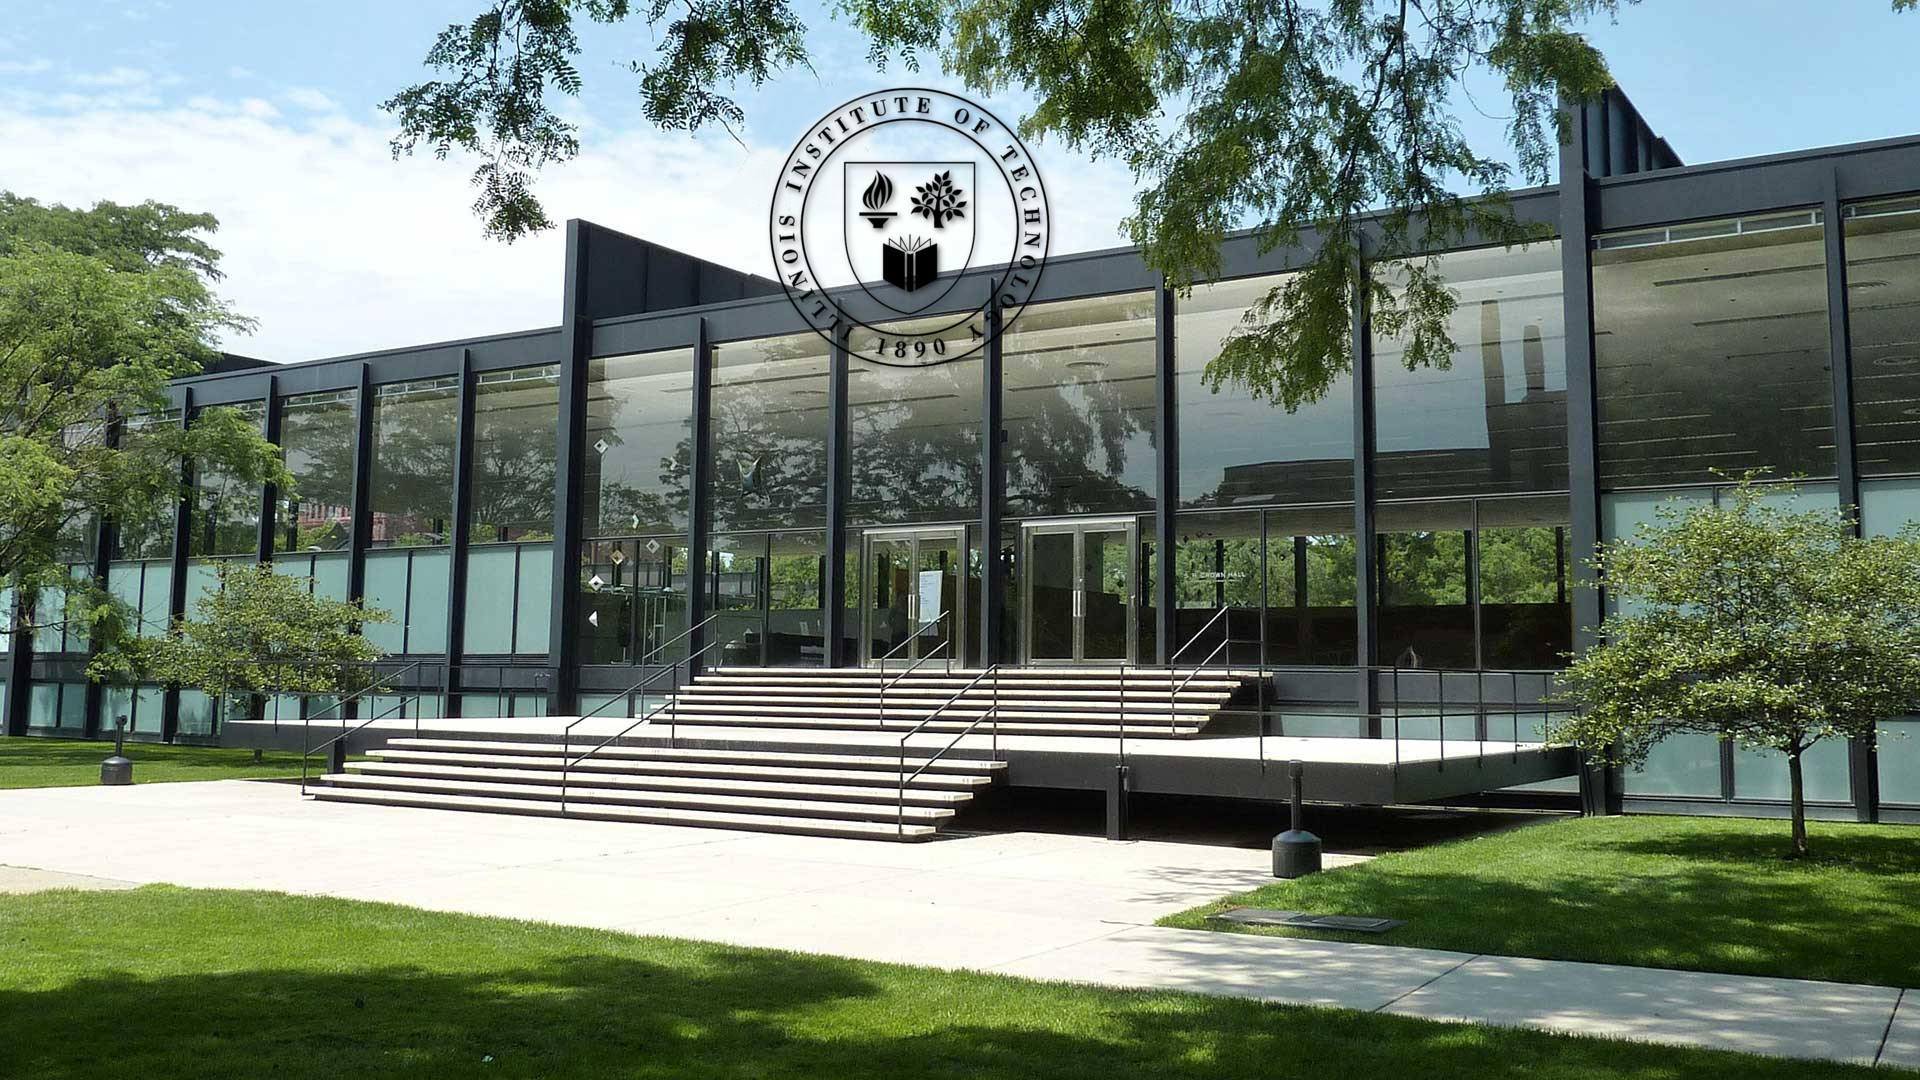
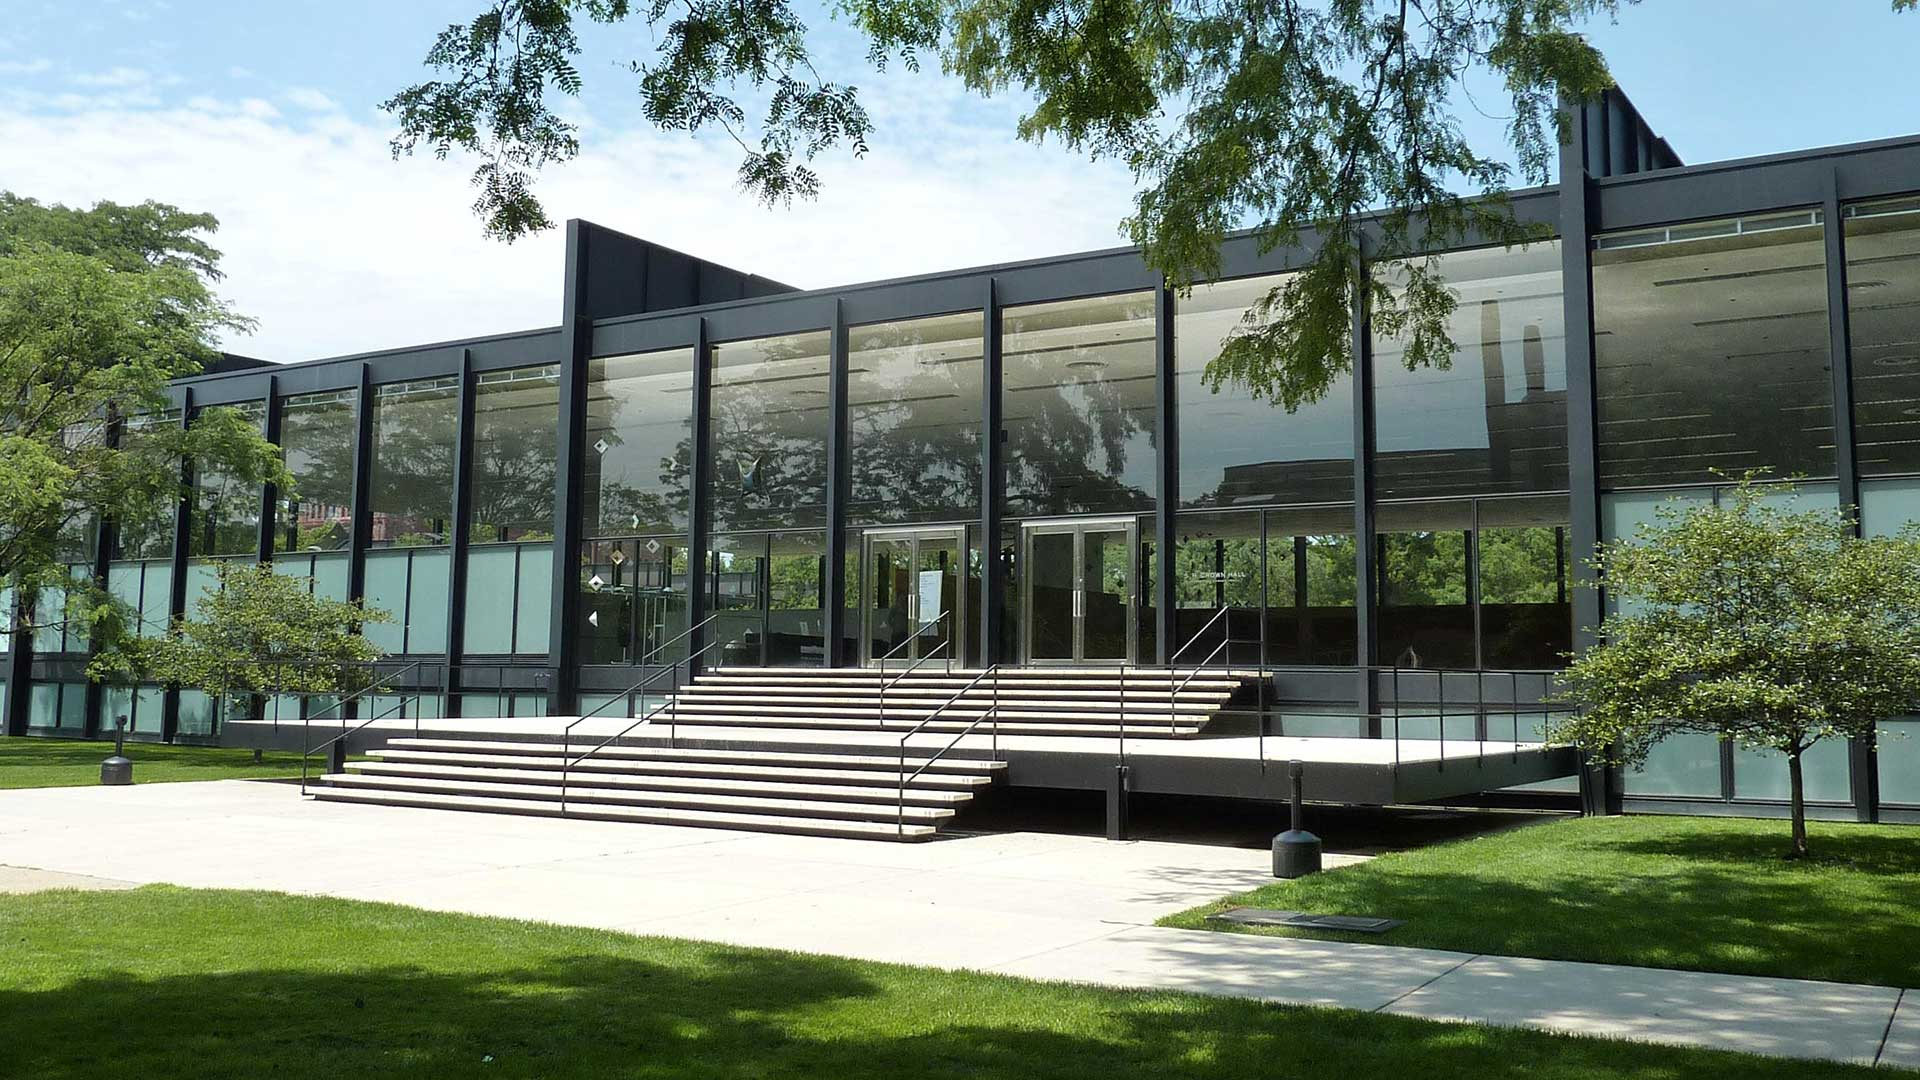
fixing indent issues, added fresh background pic, removed second box from add/drop page

Changed region(s): [[0.375, 0.0611, 0.5625, 0.3667]]

diff --git a/add-drop.html b/add-drop.html
@@ -9,7 +9,6 @@
     <script src="https://code.jquery.com/jquery-1.10.1.min.js"></script>
     <script src="javascript.js"></script>
   </head>
-
   <body>
     <div class = "menu-button">
       <i class= "fa fa-bars"></i>
@@ -32,51 +31,49 @@
       </div>
     </div>
     <div class = "box">
-      <h1>Add/Drop Page</h1>
-      <div class = "box">
       <h1>DClasses: Fall 2017</h1>
-  <input type="button" value="Add Row" onclick="add_row('classes')"/>
-	<input type="button" value="Delete Row" onclick="delete_row('classes')"/>
-	<table id="classes">
-    <tr>
-		  <td></td>
-		  <td>Course</td>
-		  <td>Title</td>
-		  <td>Professor</td>
-		<tr>
-			<td><input type="checkbox" name="chk"/></td>
-			<td> <input type="text" /> </td>
-			<td> <input type="text" /> </td>
-			<td> <input type="text" /> </td>
-		</tr>
-    <tr>
- 		  <td><input type="checkbox" name="chk"/></td>
-      <td>ITM 300</td>
-      <td>Intro to Python</td>
-      <td>Donald Mayson</td>
-    </tr>
-    <tr>
-			<td><input type="checkbox" name="chk"/></td>
-      <td>ITM 302</td>
-      <td>Intro to Java</td>
-      <td>Jay Mao</td>
-    </tr>
-    <tr>
-			<td><input type="checkbox" name="chk"/></td>
-      <td>ITM 303</td>
-      <td>Intro to Computer History</td>
-      <td>James Gibson</td>
-    </tr>
-    <tr>
-		  <td><input type="checkbox" name="chk"/></td>
-      <td>ITM 411</td>
-      <td>Project Management</td>
-      <td>Sam Yates </td>
-    </tr>
-	</table>
+      <input type="button" value="Add Row" onclick="add_row('classes')"/>
+	  <input type="button" value="Delete Row" onclick="delete_row('classes')"/>
+	  <table id="classes">
+        <tr>
+  	      <td></td>
+	      <td>Course</td>
+	      <td>Title</td>
+	      <td>Professor</td>
+	    <tr>
+	      <td><input type="checkbox" name="chk"/></td>
+		  <td> <input type="text" /> </td>
+		  <td> <input type="text" /> </td>
+		  <td> <input type="text" /> </td>
+	    </tr>
+        <tr>
+ 	      <td><input type="checkbox" name="chk"/></td>
+          <td>ITM 300</td>
+          <td>Intro to Python</td>
+          <td>Donald Mayson</td>
+        </tr>
+        <tr>
+          <td><input type="checkbox" name="chk"/></td>
+          <td>ITM 302</td>
+          <td>Intro to Java</td>
+          <td>Jay Mao</td>
+        </tr>
+        <tr>
+	      <td><input type="checkbox" name="chk"/></td>
+          <td>ITM 303</td>
+          <td>Intro to Computer History</td>
+          <td>James Gibson</td>
+        </tr>
+        <tr>
+  	      <td><input type="checkbox" name="chk"/></td>
+          <td>ITM 411</td>
+          <td>Project Management</td>
+          <td>Sam Yates </td>
+        </tr>
+	  </table>
     </div>
   </body>
-    <div class="footer">
-  <p>© 2017 Illinois Institute of Technology. All Rights Reserved.</p>
-</div>  
+  <div class="footer">
+    <p>© 2017 Illinois Institute of Technology. All Rights Reserved.</p>
+  </div>  
 </html>

diff --git a/classes.html b/classes.html
@@ -9,7 +9,6 @@
     <script src="https://code.jquery.com/jquery-1.10.1.min.js"></script>
     <script src="javascript.js"></script>
   </head>
-
   <body>
     <div class = "menu-button">
       <i class= "fa fa-bars"></i>
@@ -32,43 +31,39 @@
       </div>
     </div>
     <div class = "box">
-      <h1>Display Classes: Fall 2017</h1>
-    
-        <table id="classes">
-          <tbody>
-            <tr id="classeslist">
-              <td>Course</td>
-              <td>Title</td>
-              <td>Instructor</td>
-            </tr>
-            <tr>
-              <td>ITM 300</td>
-              <td>Intro to Python</td>
-              <td>Donald Mayson</td>
-            </tr>
-            <tr>
-              <td>ITM 302</td>
-              <td>Intro to Java</td>
-              <td>Jay Mao</td>
-            </tr>
-            <tr>
-              <td>ITM 303</td>
-              <td>Intro to Computer History</td>
-              <td>James Gibson</td>
-            </tr>
-            <tr>
-              <td>ITM 411</td>
-              <td>Project Management</td>
-              <td>Sam Yates </td>
-            </tr>
-
-      
+      <h1>Display Classes: Fall 2017</h1>   
+      <table id="classes">
+        <tbody>
+          <tr id="classeslist">
+            <td>Course</td>
+            <td>Title</td>
+            <td>Instructor</td>
+          </tr>
+          <tr>
+            <td>ITM 300</td>
+            <td>Intro to Python</td>
+            <td>Donald Mayson</td>
+          </tr>
+          <tr>
+            <td>ITM 302</td>
+            <td>Intro to Java</td>
+            <td>Jay Mao</td>
+          </tr>
+          <tr>
+            <td>ITM 303</td>
+            <td>Intro to Computer History</td>
+            <td>James Gibson</td>
+          </tr>
+          <tr>
+            <td>ITM 411</td>
+            <td>Project Management</td>
+            <td>Sam Yates </td>
+          </tr>
+        </tbody>
+      </table>      
     </div>
   </body>
-  
-  
-    <div class="footer">
-  <p>© 2017 Illinois Institute of Technology. All Rights Reserved.</p>
-</div>
-      
+  <div class="footer">
+    <p>© 2017 Illinois Institute of Technology. All Rights Reserved.</p>
+  </div>
 </html>

diff --git a/academics.html b/academics.html
@@ -9,7 +9,6 @@
     <script src="https://code.jquery.com/jquery-1.10.1.min.js"></script>
     <script src="javascript.js"></script>
   </head>
-
   <body>
     <div class = "menu-button">
       <i class= "fa fa-bars"></i>
@@ -35,10 +34,7 @@
       <h1>Welcome to the Academics page of the new IIT Website!</h1>
     </div>
   </body>
-  
-    <div class="footer">
-  <p>© 2017 Illinois Institute of Technology. All Rights Reserved.</p>
-</div>
-      
-  
+  <div class="footer">
+    <p>© 2017 Illinois Institute of Technology. All Rights Reserved.</p>
+  </div>  
 </html>

diff --git a/welcome.html b/welcome.html
@@ -9,7 +9,6 @@
     <script src="https://code.jquery.com/jquery-1.10.1.min.js"></script>
     <script src="javascript.js"></script>
   </head>
-
   <body>
     <div class = "menu-button">
       <i class= "fa fa-bars"></i>
@@ -35,10 +34,7 @@
       <h1>Welcome to the Welcome page of the new IIT Website! </h1>
     </div>
   </body>
-  
-    <div class="footer">
-  <p>© 2017 Illinois Institute of Technology. All Rights Reserved.</p>
-</div>
-      
-  
+  <div class="footer">
+    <p>© 2017 Illinois Institute of Technology. All Rights Reserved.</p>
+  </div>
 </html>

diff --git a/css/style.css b/css/style.css
@@ -210,7 +210,6 @@ font-size: 2.5em;
   padding: 4px;
 }
 
-
 .navbar-options{
   justify-content: center;
   padding: .8em 0;
